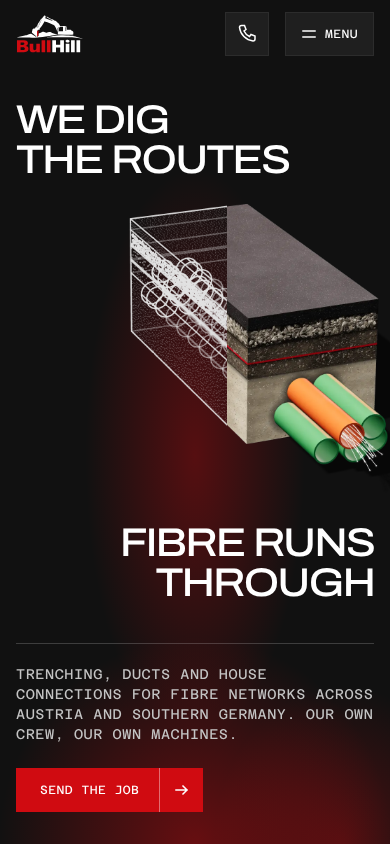
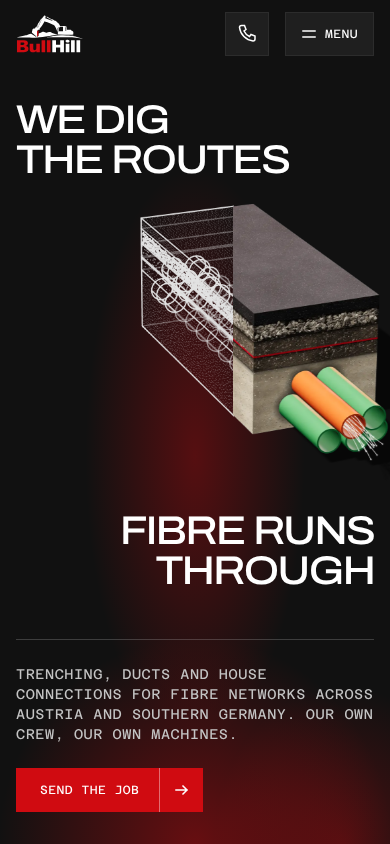
BullHill phone hero gaps on the spacing scale, 48 and 24
Claude-Session: https://claude.ai/code/session_01XWAgSjjA5msmFT47K5pkaX

diff --git a/bullhill-site/src/p1/variants/hero/hero6.css b/bullhill-site/src/p1/variants/hero/hero6.css
@@ -78,14 +78,14 @@
  * with its right end running off the screen, then a hairline, the mono lede and one button. No seam
  * line, no tags, no BH 001 card. The h1 and the stage share one grid cell, the h1 above. */
 /* One 844px screen with air, Filip 14 October. The headline halves are 40px, two lines each, 80px,
- * and the space under the second half is 40px, the TALL_HALF and TALL_FOOT of Hero6.tsx. */
+ * and the space under the second half is 48px, the TALL_HALF and TALL_FOOT of Hero6.tsx. */
 @media (max-width: 767px) {
   .p1 .hv6__in { display: grid; grid-template-columns: minmax(0, 1fr); grid-template-rows: minmax(0, 1fr) auto; padding-top: calc(var(--hd-h) + 32px); padding-bottom: 32px; }
-  .p1 .hv6__top { display: flex; grid-area: 1 / 1; position: relative; z-index: 10; padding-bottom: 40px; }
+  .p1 .hv6__top { display: flex; grid-area: 1 / 1; position: relative; z-index: 10; padding-bottom: 48px; }
   .p1 .hv6__title { display: flex; flex-direction: column; justify-content: space-between; width: 100%; font-size: 40px; line-height: 40px; pointer-events: none; }
   .p1 .hv6__title .rise__part:last-child { align-self: flex-end; text-align: right; }
   .p1 .hv6__stage { grid-area: 1 / 1; margin-top: 0; aspect-ratio: auto; }
-  .p1 .hv6__bot { grid-area: 2 / 1; margin-top: 0; padding-top: 20px; border-top: 1px solid var(--hair-paper); }
+  .p1 .hv6__bot { grid-area: 2 / 1; margin-top: 0; padding-top: 24px; border-top: 1px solid var(--hair-paper); }
   .p1 .hv6__card { display: none; }
 }
 

diff --git a/bullhill-site/src/p1/variants/hero/Hero6.tsx b/bullhill-site/src/p1/variants/hero/Hero6.tsx
@@ -48,7 +48,7 @@ const TAG_GAP = 32;
 const TALL_OVER = 0.06;
 const TALL_HALF = 80;
 const TALL_GAP = 24;
-const TALL_FOOT = 40;
+const TALL_FOOT = 48;
 const TALL_VIS_TOP = 0.1825;
 const TALL_VIS_H = 0.7025;
 const ORDER: LayerId[] = ['surface', 'base', 'tape', 'backfill', 'ducts', 'sand'];

diff --git a/studio/clients/bullhill/taste.md b/studio/clients/bullhill/taste.md
@@ -11,7 +11,7 @@ Entry format.
 - **YYYY-MM-DD HH:MM, <thing>, <what happened>.** ACCEPTED | REJECTED. Said: "<Filip's words, under 20 words>". Why: <the reason>. Carry forward: <the rule a builder follows next time>.
 ```
 
-- **2026-10-14 17:18, phone hero in one screen, everything smaller to make air.** ACCEPTED. Said: "it should be in one block - shrink down the rest of the elements to make this fit". Why: the hero is one block the visitor sees whole, so air comes from smaller parts, not a longer hero. Carry forward: the phone hero fits one 844px screen at 390. The headline halves are 40px, the block fills the room between them 24px clear of each, about 295px of visible block, with its duct ends in frame and a slight bleed off the right edge, 32px under the header, 40px from the second half to the hairline, 20 and 24px to the lede and button, 32px at the foot.
+- **2026-10-14 17:18, phone hero in one screen, everything smaller to make air.** ACCEPTED. Said: "it should be in one block - shrink down the rest of the elements to make this fit". Why: the hero is one block the visitor sees whole, so air comes from smaller parts, not a longer hero. Carry forward: the phone hero fits one 844px screen at 390. The headline halves are 40px, the block fills the room between them 24px clear of each, about 283px of visible block, with its duct ends in frame and a slight bleed off the right edge, 32px under the header, 48px from the second half to the hairline, 24 and 24px to the lede and button, 32px at the foot, every value on the spacing scale.
 - **2026-10-14 17:17, phone hero at 1.25 screens with air.** ACCEPTED, SUPERSEDED by 2026-10-14 17:18 phone hero in one screen. Said: "yes go with 1.25 screens". Why: the proposal in `briefs/website/round5-notes.md` note 9 gives every gap 48 to 64px and lets the lede and Send the job sit just under the fold. Carry forward: the phone hero runs about 1056px at 390 by 844, header to first half 64, the block 48 clear of each half, second half to hairline 64, hairline to lede 24, lede to button 32, button to the foot 48, the 30svh pin on the block only.
 - **2026-10-14 17:09, phone hero held to one screen.** REJECTED. Said: "To cramped we need better spacing overall here - its fighting for air". Why: at 390 by 844 every gap in the phone hero was 17 to 24px, header, headline halves, the block, hairline, lede and button squeezed into one screen. Carry forward: on phones, air wins over fitting in one screen. Gaps between the hero's parts are 48 to 64px on the 8px scale, and the lede and button may sit under the fold while the header's phone button stays in view.
 - **2026-10-14 16:54, crew photo strip on phones, kept.** ACCEPTED. Said: "nono dont hide themm", right after "yes hide them", on hiding the three crew placeholders on phones. Why: Filip wants the crew section to show people, even as placeholders, while real crew photos are on the way (inferred). Carry forward: the crew strip (`.crew__strip`) shows at every width. Do not offer to hide it again for page length.
